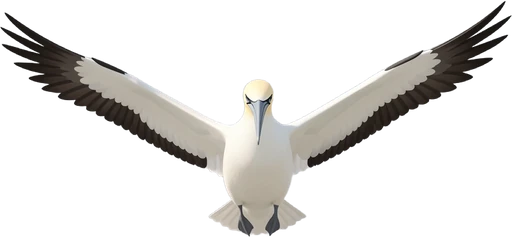
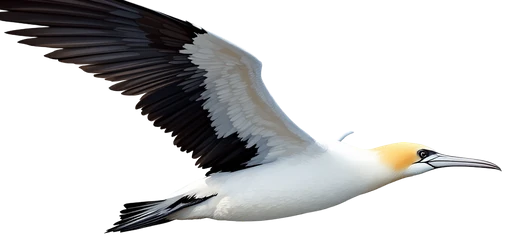
Birds: gannets fly in side view (glide + wing-down frame while climbing), gannet with its catch, gull glide and flap, a heron for the mangroves

diff --git a/game/ai/SeabirdLayer.js b/game/ai/SeabirdLayer.js
@@ -20,7 +20,7 @@ export const SEABIRDS = {
     shadowDepth: 40      // px under the surface
 };
 
-export const SEABIRD_ART = ['gannet_glide', 'gannet_dive', 'gannet_float'];
+export const SEABIRD_ART = ['gannet_glide', 'gannet_flap', 'gannet_dive', 'gannet_float'];
 
 /** x of every island coast that faces open sea. */
 export function coasts(biomes = BIOMES) {
@@ -113,8 +113,10 @@ export default class SeabirdLayer {
             const key = art(s, 'gannet_float');
             sp.setTexture(key).setRotation(0).setScale(C.floatW / sp.width).setFlipX(m.vx < 0);
         } else {
-            const key = art(s, 'gannet_glide');
-            // A slow wing rock while circling; wings held still in the hover before the dive.
+            // Side view (both pictures face right): it beats its wings while it climbs on its circle and
+            // glides on the way down; wings held still in the hover before the dive.
+            const climbing = m.state !== 'aim' && Math.cos(m.timer * 0.9 + m.seed) < 0;
+            const key = art(s, climbing && Math.sin(m.timer * 9 + m.seed) > 0 ? 'gannet_flap' : 'gannet_glide');
             const rock = m.state === 'aim' ? 0 : Math.sin(m.timer * 2.2 + m.seed) * 0.12;
             sp.setTexture(key).setRotation(rock).setScale(C.glideW / sp.width).setFlipX(m.vx < 0);
         }

diff --git a/scripts/fx/fish_cut.py b/scripts/fx/fish_cut.py
@@ -1,11 +1,13 @@
-# A painted fish (generated on white) made into a game picture: the cutout's alpha laid over the
-# original at full resolution, cropped to the fish with a small margin, scaled to a width.
-# Used for the barracuda (img/barracuda.webp) and shoal species (img/school/<id>.webp).
-# usage: python -I scripts/fx/fish_cut.py <painted png> <cutout png> <width> <out webp>
+# A painted animal (generated on white) made into a game picture: the cutout's alpha laid over the
+# original at full resolution, cropped to the animal with a small margin, scaled to a width, and
+# mirrored when asked (so every side view faces right). Used for the barracuda (img/barracuda.webp),
+# shoal species (img/school/<id>.webp) and the birds (gannet_*, gull_*, heron).
+# usage: python -I scripts/fx/fish_cut.py <painted png> <cutout png> <width> <out webp> [flip]
 import sys
 from PIL import Image
 
 SRC, CUT, WIDTH, OUT = sys.argv[1], sys.argv[2], int(sys.argv[3]), sys.argv[4]
+FLIP = len(sys.argv) > 5 and sys.argv[5] == 'flip'
 MARGIN = 0.02            # share of the width kept free around the fish (soft edges stay whole)
 
 img = Image.open(SRC).convert('RGBA')
@@ -14,5 +16,6 @@ x0, y0, x1, y1 = img.getchannel('A').point(lambda a: 255 if a > 24 else 0).getbb
 m = round((x1 - x0) * MARGIN)
 img = img.crop((max(0, x0 - m), max(0, y0 - m), min(img.width, x1 + m), min(img.height, y1 + m)))
 img = img.resize((WIDTH, round(img.height * WIDTH / img.width)), Image.LANCZOS)
+if FLIP: img = img.transpose(Image.FLIP_LEFT_RIGHT)
 img.save(OUT, quality=90, method=6)
 print(OUT, img.size)
